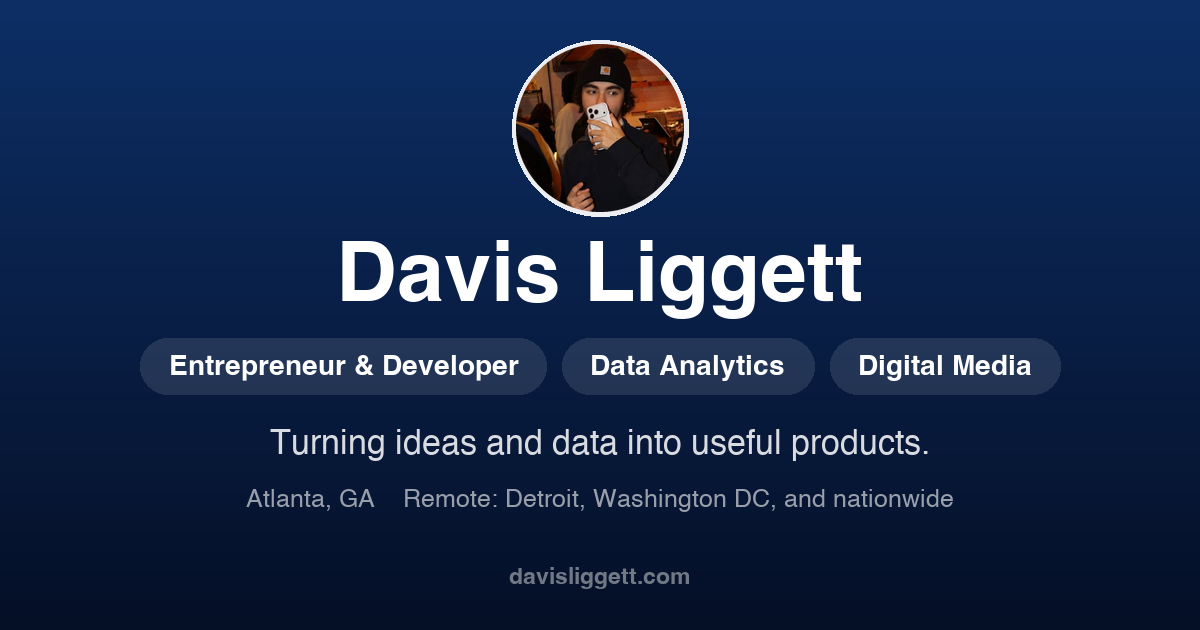
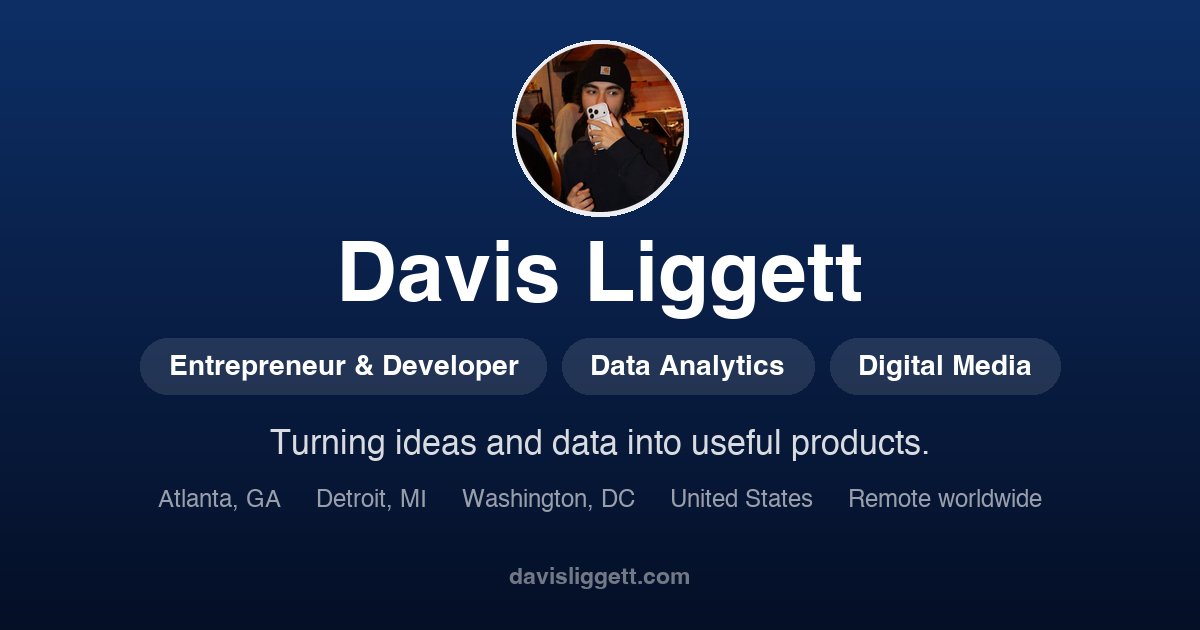
Refine location line, add availability badge and Signal card

Changed region(s): [[0.1233, 0.754, 0.8633, 0.8143]]

diff --git a/index.html b/index.html
@@ -13,7 +13,7 @@
 <meta property="og:site_name" content="Davis Liggett">
 <meta property="og:locale" content="en_US">
 <meta property="og:title" content="Davis Liggett | Entrepreneur & Developer">
-<meta property="og:description" content="Data analytics and digital media. Turning ideas and data into useful products. Based in Atlanta, GA.">
+<meta property="og:description" content="Data analytics and digital media. Turning ideas and data into useful products. Based in Atlanta, GA, open to remote work worldwide.">
 <meta property="og:url" content="https://davisliggett.com/">
 <meta property="og:image" content="https://davisliggett.com/og.png">
 <meta property="og:image:width" content="1200">
@@ -25,7 +25,7 @@
 <meta name="twitter:site" content="@davisliggett">
 <meta name="twitter:creator" content="@davisliggett">
 <meta name="twitter:title" content="Davis Liggett | Entrepreneur & Developer">
-<meta name="twitter:description" content="Data analytics and digital media. Turning ideas and data into useful products. Based in Atlanta, GA.">
+<meta name="twitter:description" content="Data analytics and digital media. Turning ideas and data into useful products. Based in Atlanta, GA, open to remote work worldwide.">
 <meta name="twitter:image" content="https://davisliggett.com/og.png">
 <link rel="icon" href="favicon.svg" type="image/svg+xml">
 <link rel="icon" href="favicon-32.png" sizes="32x32" type="image/png">
@@ -166,8 +166,9 @@
     display: flex;
     flex-wrap: wrap;
     justify-content: center;
-    gap: 6px 18px;
-    margin: 12px 0 0;
+    align-items: center;
+    gap: 6px 0;
+    margin: 14px 0 0;
     padding: 0;
     list-style: none;
     font-size: 13px;
@@ -182,8 +183,17 @@
     white-space: nowrap;
   }
 
+  .location li + li::before {
+    content: "";
+    width: 3px;
+    height: 3px;
+    margin: 0 11px;
+    border-radius: 50%;
+    background: rgba(255, 255, 255, .35);
+  }
+
   .location li.home {
-    color: rgba(255, 255, 255, .9);
+    color: rgba(255, 255, 255, .92);
   }
 
   .location svg {
@@ -195,6 +205,28 @@
     width: 18px;
     height: 13px;
     border-radius: 2px;
+  }
+
+  .availability {
+    display: inline-flex;
+    align-items: center;
+    gap: 8px;
+    margin: 12px 0 0;
+    padding: 6px 13px 6px 11px;
+    border: 1px solid var(--card-border);
+    border-radius: 999px;
+    font-size: 13px;
+    font-weight: 500;
+    color: rgba(255, 255, 255, .85);
+  }
+
+  .availability::before {
+    content: "";
+    width: 8px;
+    height: 8px;
+    border-radius: 50%;
+    background: #4ade80;
+    box-shadow: 0 0 0 3px rgba(74, 222, 128, .18);
   }
 
   .links {
@@ -268,6 +300,7 @@
   .tile-github { background: #24292f; }
   .tile-tiktok { background: #010101; }
   .tile-linkedin { background: #0a66c2; }
+  .tile-signal { background: #3a76f0; }
 
   .card-title {
     display: block;
@@ -363,6 +396,17 @@
     color: rgba(255, 255, 255, .4);
   }
 
+  @media (max-width: 480px) {
+    .location {
+      display: grid;
+      grid-template-columns: auto auto;
+      justify-content: center;
+      column-gap: 20px;
+      row-gap: 8px;
+    }
+    .location li + li::before { display: none; }
+  }
+
   @media (max-width: 400px) {
     body { padding-top: 52px; }
     h1 { font-size: 27px; }
@@ -387,8 +431,11 @@
     <p class="tagline">Turning ideas and data into useful products.</p>
     <ul class="location" aria-label="Locations">
       <li class="home"><svg viewBox="0 0 24 24" fill="none" stroke="currentColor" stroke-width="2" stroke-linecap="round" stroke-linejoin="round" aria-hidden="true"><path d="M20 10c0 4.993-5.539 10.193-7.399 11.799a1 1 0 0 1-1.202 0C9.539 20.193 4 14.993 4 10a8 8 0 0 1 16 0"/><circle cx="12" cy="10" r="3"/></svg>Atlanta, GA</li>
-      <li><svg class="flag" viewBox="0 0 20 14" aria-hidden="true"><clipPath id="flag-clip"><rect width="20" height="14" rx="2"/></clipPath><g clip-path="url(#flag-clip)"><rect width="20" height="14" fill="#fff"/><g fill="#b22234"><rect y="0.000" width="20" height="1.08"/><rect y="2.154" width="20" height="1.08"/><rect y="4.308" width="20" height="1.08"/><rect y="6.462" width="20" height="1.08"/><rect y="8.615" width="20" height="1.08"/><rect y="10.769" width="20" height="1.08"/><rect y="12.923" width="20" height="1.08"/></g><rect width="8" height="7.54" fill="#3c3b6e"/></g></svg>Remote: Detroit, Washington DC, and nationwide</li>
+      <li>Detroit, MI</li>
+      <li>Washington, DC</li>
+      <li><svg class="flag" viewBox="0 0 20 14" aria-hidden="true"><clipPath id="flag-clip"><rect width="20" height="14" rx="2"/></clipPath><g clip-path="url(#flag-clip)"><rect width="20" height="14" fill="#fff"/><g fill="#b22234"><rect y="0.000" width="20" height="1.08"/><rect y="2.154" width="20" height="1.08"/><rect y="4.308" width="20" height="1.08"/><rect y="6.462" width="20" height="1.08"/><rect y="8.615" width="20" height="1.08"/><rect y="10.769" width="20" height="1.08"/><rect y="12.923" width="20" height="1.08"/></g><rect width="8" height="7.54" fill="#3c3b6e"/></g></svg>United States</li>
     </ul>
+    <p class="availability">Open to remote work worldwide</p>
   </header>
 
   <ul class="links">
@@ -407,6 +454,11 @@
       <span class="tile tile-slate"><svg viewBox="0 0 24 24" fill="none" stroke="currentColor" stroke-width="2" stroke-linecap="round" stroke-linejoin="round" aria-hidden="true"><rect width="20" height="16" x="2" y="4" rx="2"/><path d="m22 7-8.97 5.7a1.94 1.94 0 0 1-2.06 0L2 7"/></svg></span>
       <span><span class="card-title">Email</span><span class="card-info">Reach me</span></span>
       <span class="card-meta">contact@electindex.com</span>
+    </a></li>
+    <li><a class="card" href="#signal" data-copy="davisliggett.404">
+      <span class="tile tile-signal"><svg viewBox="0 0 24 24" fill="currentColor" aria-hidden="true"><path d="M12 0q-.934 0-1.83.139l.17 1.111a11 11 0 0 1 3.32 0l.172-1.111A12 12 0 0 0 12 0M9.152.34A12 12 0 0 0 5.77 1.742l.584.961a10.8 10.8 0 0 1 3.066-1.27zm5.696 0-.268 1.094a10.8 10.8 0 0 1 3.066 1.27l.584-.962A12 12 0 0 0 14.848.34M12 2.25a9.75 9.75 0 0 0-8.539 14.459c.074.134.1.292.064.441l-1.013 4.338 4.338-1.013a.62.62 0 0 1 .441.064A9.7 9.7 0 0 0 12 21.75c5.385 0 9.75-4.365 9.75-9.75S17.385 2.25 12 2.25m-7.092.068a12 12 0 0 0-2.59 2.59l.909.664a11 11 0 0 1 2.345-2.345zm14.184 0-.664.909a11 11 0 0 1 2.345 2.345l.909-.664a12 12 0 0 0-2.59-2.59M1.742 5.77A12 12 0 0 0 .34 9.152l1.094.268a10.8 10.8 0 0 1 1.269-3.066zm20.516 0-.961.584a10.8 10.8 0 0 1 1.27 3.066l1.093-.268a12 12 0 0 0-1.402-3.383M.138 10.168A12 12 0 0 0 0 12q0 .934.139 1.83l1.111-.17A11 11 0 0 1 1.125 12q0-.848.125-1.66zm23.723.002-1.111.17q.125.812.125 1.66c0 .848-.042 1.12-.125 1.66l1.111.172a12.1 12.1 0 0 0 0-3.662M1.434 14.58l-1.094.268a12 12 0 0 0 .96 2.591l-.265 1.14 1.096.255.36-1.539-.188-.365a10.8 10.8 0 0 1-.87-2.35m21.133 0a10.8 10.8 0 0 1-1.27 3.067l.962.584a12 12 0 0 0 1.402-3.383zm-1.793 3.848a11 11 0 0 1-2.345 2.345l.664.909a12 12 0 0 0 2.59-2.59zm-19.959 1.1L.357 21.48a1.8 1.8 0 0 0 2.162 2.161l1.954-.455-.256-1.095-1.953.455a.675.675 0 0 1-.81-.81l.454-1.954zm16.832 1.769a10.8 10.8 0 0 1-3.066 1.27l.268 1.093a12 12 0 0 0 3.382-1.402zm-10.94.213-1.54.36.256 1.095 1.139-.266c.814.415 1.683.74 2.591.961l.268-1.094a10.8 10.8 0 0 1-2.35-.869zm3.634 1.24-.172 1.111a12.1 12.1 0 0 0 3.662 0l-.17-1.111q-.812.125-1.66.125a11 11 0 0 1-1.66-.125"/></svg></span>
+      <span><span class="card-title">Signal</span><span class="card-info">Tap to copy</span></span>
+      <span class="card-meta" data-meta>davisliggett.404</span>
     </a></li>
 
     <li class="divider" role="separator" aria-hidden="true"></li>
@@ -440,5 +492,20 @@
 
   <footer>© 2026 Davis Liggett</footer>
 </main>
+<script>
+  document.querySelectorAll("[data-copy]").forEach(function (a) {
+    a.addEventListener("click", async function (e) {
+      e.preventDefault();
+      var meta = a.querySelector("[data-meta]"), text = a.dataset.copy;
+      try {
+        await navigator.clipboard.writeText(text);
+        meta.textContent = "Copied";
+        setTimeout(function () { meta.textContent = text; }, 1500);
+      } catch (err) {
+        window.prompt("Copy my Signal username:", text);
+      }
+    });
+  });
+</script>
 </body>
 </html>
